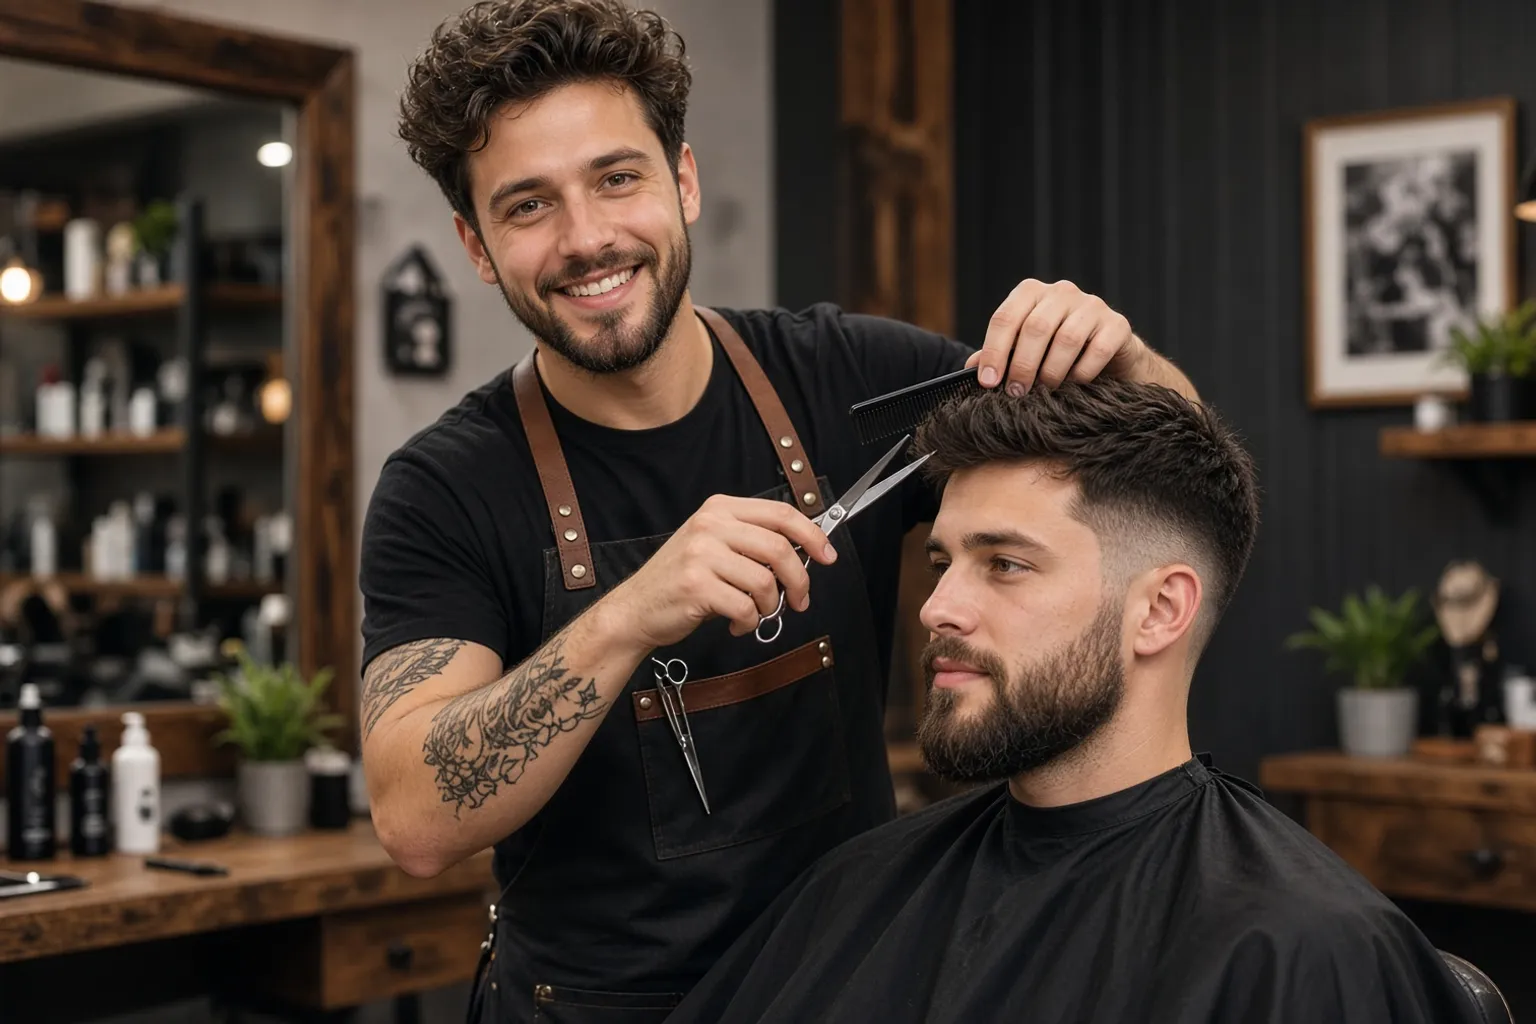
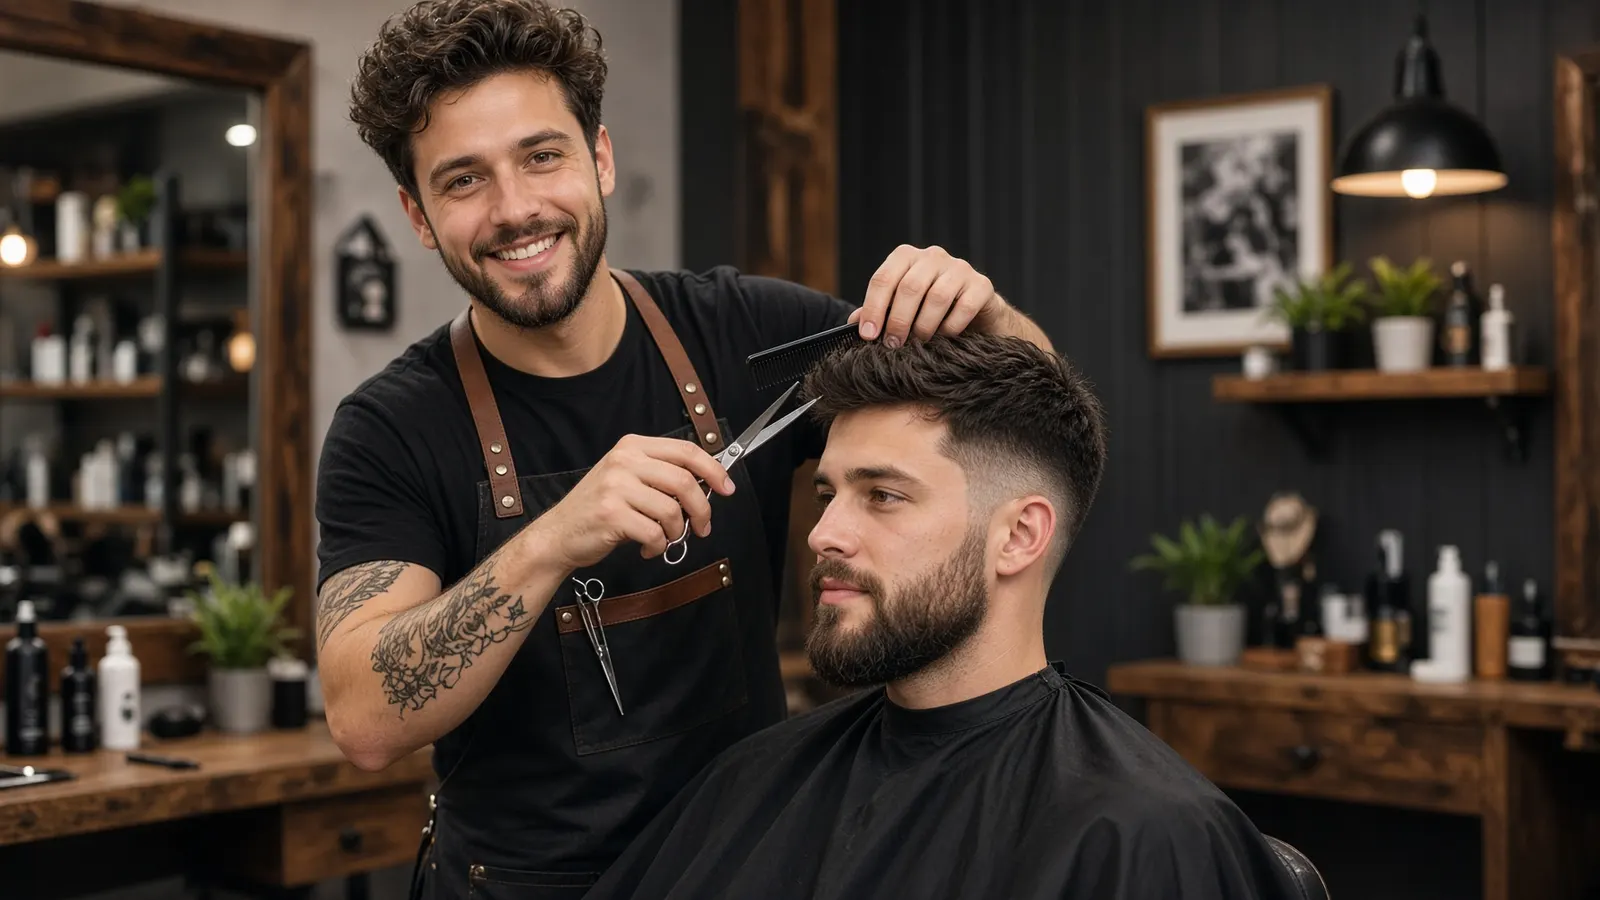
Herofoto's voor 14 pagina's (Grok, in huisstijl) en brede hero op /nieuwe-website

diff --git a/lib/pagina-fotos.ts b/lib/pagina-fotos.ts
@@ -4,7 +4,7 @@ import { join } from "node:path";
 /**
  * Herofoto's per landingspagina (wens Jos 14-10-2026: "een herofoto
  * bovenaan"; rechts stond op 25 pagina's hetzelfde plaatje). Een foto staat
- * in public/images/paginas/<slug>.webp, 1536x1024. Bestaat het bestand niet,
+ * in public/images/paginas/<slug>.webp, breed formaat (1600x900); de hero snijdt zelf bij. Bestaat het bestand niet,
  * dan valt de pagina terug op de bekende overstap-illustratie, dus een
  * ontbrekende foto maakt niets stuk.
  *
@@ -12,20 +12,20 @@ import { join } from "node:path";
  * waarom dat ertoe doet.
  */
 export const FOTO_ALT: Record<string, string> = {
-  "website-laten-onderhouden": "Ondernemer klapt aan het eind van de dag ontspannen zijn laptop dicht",
-  "wordpress-overzetten": "Winkeleigenaar aan de keukentafel met haar laptop en een kop koffie, opgelucht",
-  "nieuwe-website": "Twee mensen bekijken samen een websiteontwerp op een laptop aan een werktafel",
-  "website-koppelen-aan-ai": "Bloemist typt een wijziging op haar telefoon terwijl ze een boeket vasthoudt",
-  "website-abonnement": "Ondernemer aan de keukentafel met haar laptop en een kop koffie",
+  "website-laten-onderhouden": "Ondernemer in een groene trui werkt rustig op zijn laptop aan een eiken bureau met planten",
+  "wordpress-overzetten": "Winkeleigenaar zit ontspannen met een kop koffie aan de keukentafel naast haar laptop",
+  "nieuwe-website": "Twee ondernemers bekijken samen een websiteontwerp op een laptop, met schetsen en kleurstalen op tafel",
+  "website-koppelen-aan-ai": "Bloemist met een boeket in haar hand stuurt een bericht vanaf haar telefoon in haar winkel",
+  "website-abonnement": "Meubelmaker kijkt in zijn werkplaats op een tablet naast zijn werkbank",
   "wordpress-website-traag": "Man wacht met zijn kin op zijn hand op een laptop die niet opschiet",
   "website-kapsalon": "Kapper knipt een klant met baard in een salon met houten interieur",
-  "website-schildersbedrijf": "Schilder fotografeert de net geschilderde kozijnen van een Nederlands huis",
-  "website-hoveniersbedrijf": "Hovenier fotografeert een net aangelegde tuin met zijn telefoon",
-  "website-installatiebedrijf": "Installateur bij een nieuwe warmtepomp kijkt op zijn telefoon",
-  "website-bouwbedrijf": "Aannemer op een kleine bouwplaats met een tablet in zijn hand",
-  "website-coach": "Coach schrijft in een notitieboek in een rustige praktijkruimte",
-  "website-mediator": "Ronde tafel met water en glazen in een rustige mediationruimte",
-  "website-kunstenaar": "Schilder fotografeert een afgerond doek in haar atelier",
+  "website-schildersbedrijf": "Schilder fotografeert de net geschilderde groene kozijnen van een bakstenen huis",
+  "website-hoveniersbedrijf": "Hovenier fotografeert een net aangelegde tuin met grindpad",
+  "website-installatiebedrijf": "Installateur kijkt op zijn telefoon naast een nieuw geplaatste warmtepomp",
+  "website-bouwbedrijf": "Aannemer met een tablet op een renovatieproject met steigers en nieuw metselwerk",
+  "website-coach": "Coach schrijft in een notitieboek in een rustige praktijkruimte met groene fauteuils",
+  "website-mediator": "Ronde eiken tafel met een karaf water en glazen in een rustige mediationruimte",
+  "website-kunstenaar": "Schilder fotografeert een groot afgerond doek in haar atelier",
   "website-stichting": "Vrijwilligers zetten stoelen klaar in een buurthuis, een van hen maakt een foto",
 };
 

diff --git a/app/nieuwe-website/page.tsx b/app/nieuwe-website/page.tsx
@@ -1,5 +1,9 @@
 import type { Metadata } from "next";
 import Link from "next/link";
+import Image from "next/image";
+import { FOTO_ALT } from "@/lib/pagina-fotos";
+
+const foto = { src: "/images/paginas/nieuwe-website.webp", alt: FOTO_ALT["nieuwe-website"] };
 
 export const metadata: Metadata = {
   title: "Nieuwe website laten maken met AI, vanaf €250",
@@ -65,19 +69,28 @@ const invoer =
 export default function NieuweWebsite() {
   return (
     <>
-      <div className="mx-auto max-w-4xl px-6 pt-20">
-        <p className="text-sm font-semibold uppercase tracking-wider text-violet-600">
-          EEN FRISSE START
-        </p>
-        <h1 className="font-display mt-3 text-4xl sm:text-5xl font-semibold tracking-tight leading-[1.08]">
-          Een nieuwe website laten maken. Klaar voor jouw plannen.
-        </h1>
-        <p className="mt-5 text-lg text-stone-600 leading-relaxed max-w-2xl">
-          Nog geen website, of toe aan een nieuwe uitstraling? Wij bouwen hem
-          opnieuw: snel, zonder WordPress, en altijd met de AI-beheerder erbij
-          zodat je hem daarna zelf kunt aanpassen door het gewoon te typen.
-        </p>
-      </div>
+      {/* Hero over de volle breedte, net als de landingspagina's met foto */}
+      <section className="landing-breed">
+        <Image src={foto.src} alt={foto.alt} fill priority sizes="100vw" className="landing-breed-foto" />
+        <div className="landing-breed-schaduw" aria-hidden />
+        <div className="shell landing-breed-inhoud">
+          <p className="landing-breed-label">Een frisse start</p>
+          <h1 className="font-display">Een nieuwe website laten maken</h1>
+          <p className="landing-breed-onder">
+            Nog geen website, of toe aan een nieuwe uitstraling? Wij bouwen hem
+            opnieuw: snel, zonder WordPress, en met de AI-beheerder erbij zodat
+            je hem daarna zelf aanpast door het te typen.
+          </p>
+          <div className="landing-breed-knoppen">
+            <Link href="#intake" className="lift landing-breed-hoofdknop">
+              Vertel over je nieuwe website →
+            </Link>
+            <Link href="/demo" className="lift landing-breed-tweede">
+              Probeer de demo
+            </Link>
+          </div>
+        </div>
+      </section>
 
       {/* Twee smaken */}
       <div className="mx-auto max-w-4xl px-6 py-12 grid gap-6 sm:grid-cols-2">
